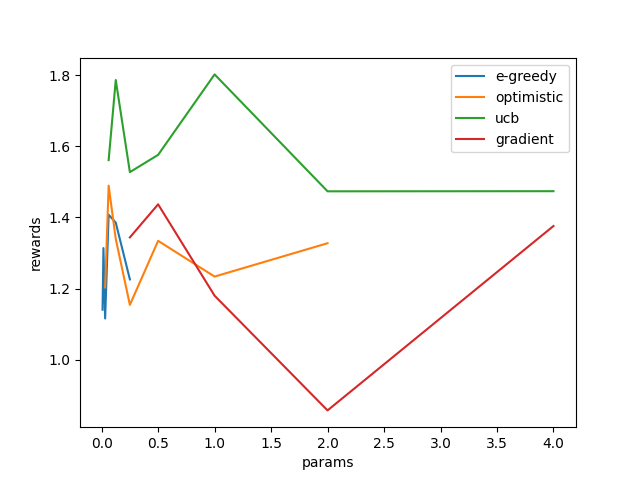
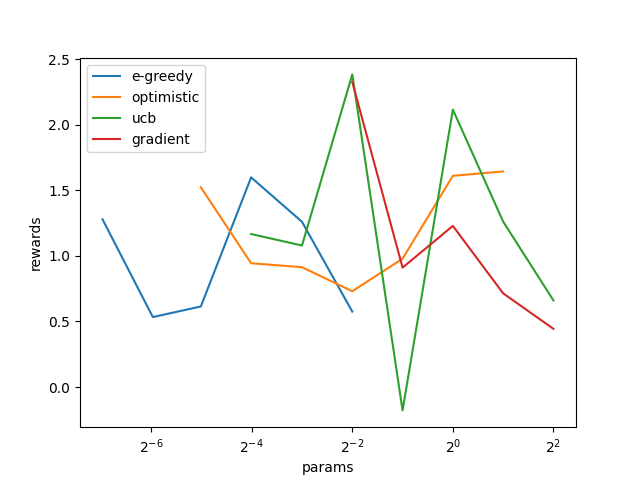
...

diff --git a/Book Sutton/chapter02/my_chapter02.py b/Book Sutton/chapter02/my_chapter02.py
@@ -228,12 +228,12 @@ def section_2_10(runs=1000, time=1000):
         bandits = [g(i) for i in inputs]
         r, _ = run_simulation(bandits, runs, time)
         rewards.append(np.mean(r, axis=1))
-    print(rewards)
 
     labels = ['e-greedy', 'optimistic', 'ucb', 'gradient']
 
     for r, l, p in zip(rewards, labels, parameters):
         plt.plot(p, r, label=l)
+        plt.xscale('log', base=2)
         plt.xlabel('params')
         plt.ylabel('rewards')
         plt.legend()
@@ -247,4 +247,4 @@ if __name__ == '__main__':
     # section_2_6()
     # section_2_7()
     # section_2_8()
-    section_2_10()
+    section_2_10(runs=2000)

diff --git a/Book Sutton/chapter02/chapter02.py b/Book Sutton/chapter02/chapter02.py
@@ -224,6 +224,7 @@ def figure_2_6(runs=2000, time=1000):
 
     i = 0
     for label, parameter in zip(labels, parameters):
+        print(parameters)
         l = len(parameter)
         plt.plot(parameter, rewards[i:i+l], label=label)
         i += l
@@ -236,9 +237,9 @@ def figure_2_6(runs=2000, time=1000):
 
 
 if __name__ == '__main__':
-    figure_2_1()
-    figure_2_2()
-    figure_2_3()
-    figure_2_4()
-    figure_2_5()
-    figure_2_6()
+    # figure_2_1()
+    # figure_2_2()
+    # figure_2_3()
+    # figure_2_4()
+    # figure_2_5()
+    figure_2_6(runs=5)
